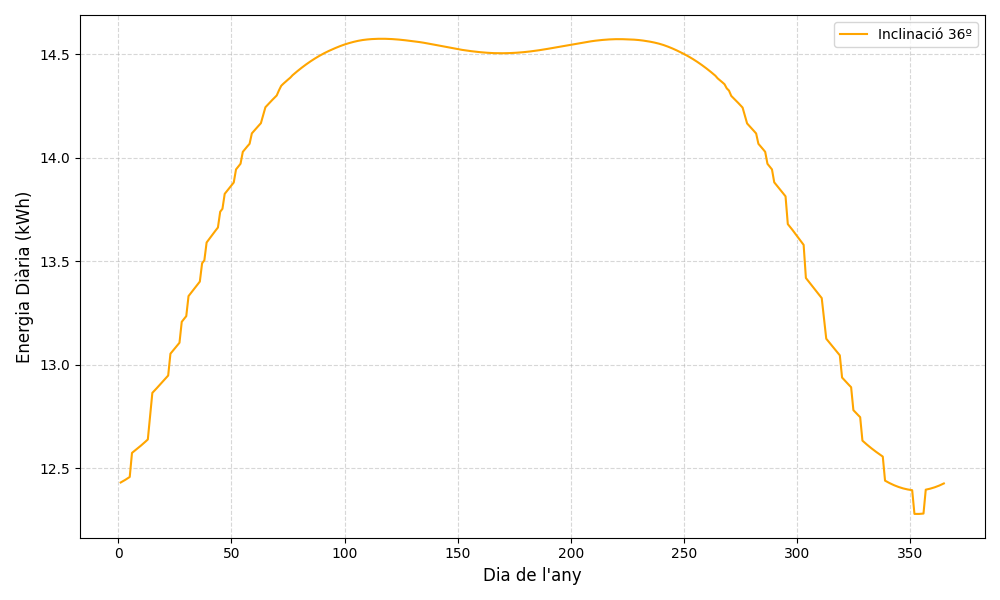
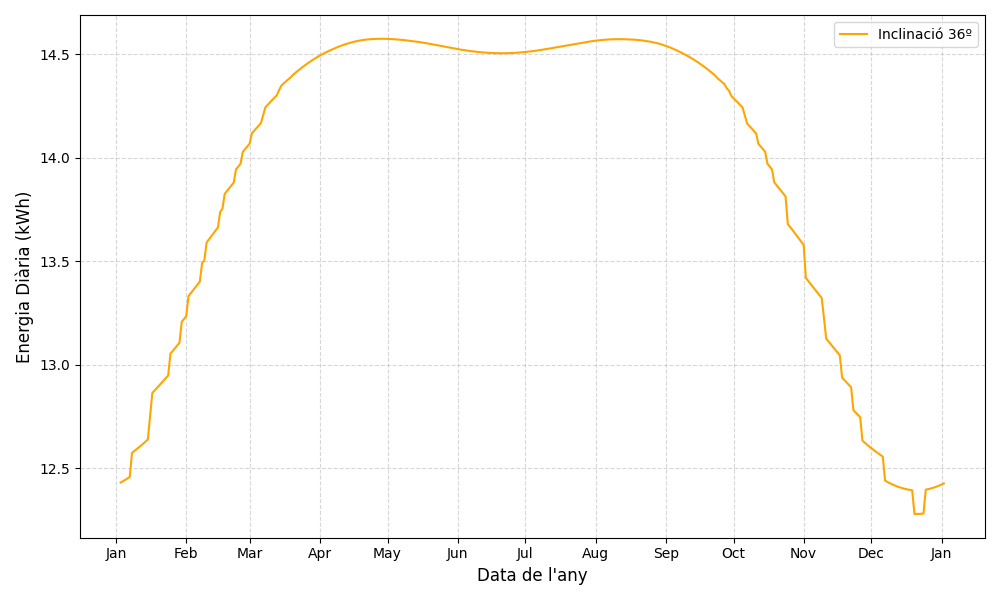
He cambiado el eje x de la grafica

diff --git a/codi/energiagenerada.py b/codi/energiagenerada.py
@@ -2,6 +2,7 @@ import numpy as np
 import datetime
 import matplotlib.pyplot as plt
 import trajectoria
+import matplotlib.dates as mdates
 from func_canvibase import posiciosol
 
 #--- DADES TRAJECTÒRIA TERRA --- #
@@ -14,7 +15,7 @@ z_tierra = np.array([0.0] * x_tierra.size)
 dia_periheli = datetime.date(2026, 1, 3) 
 
 # Fem una llista amb els dies fins el 3 de gener de 2027
-numdies = 366
+numdies = 365
 dies = [dia_periheli + datetime.timedelta(days=x) for x in range(numdies)]
 
 lists_azimuts = []
@@ -133,17 +134,21 @@ for alt_list, az_list in zip(lists_altures, lists_azimuts):
     # Guardem l'energia de cada dia
     Energia_dia_op.append(np.sum(potencia_real) * (10.0 / 60.0))
 
-dies_any = np.arange(1, len(Energia_dia_op) + 1)
 
 plt.figure(figsize=(10, 6))
-plt.plot(dies_any, np.array(Energia_dia_op)/1000, color='orange', label=f'Inclinació {millor_beta}º')
+plt.plot(dies, np.array(Energia_dia_op)/1000, color='orange', label=f'Inclinació {millor_beta}º')
 
-plt.xlabel("Dia de l'any", fontsize=12)
+ax = plt.gca()
+ax.xaxis.set_major_locator(mdates.MonthLocator())
+ax.xaxis.set_major_formatter(mdates.DateFormatter('%b'))
+
+plt.xlabel("Data de l'any", fontsize=12)
 plt.ylabel("Energia Diària (kWh)", fontsize=12)
 plt.grid(True, linestyle='--', alpha=0.5)
 plt.legend()
 plt.tight_layout()
 plt.savefig('figures/produccio_anual_optima.png')
+plt.show()
 
 plt.figure(figsize=(10, 6))
 plt.plot(beta_provar, np.array(Energia_total)/1000, color='blue', linewidth=2)
